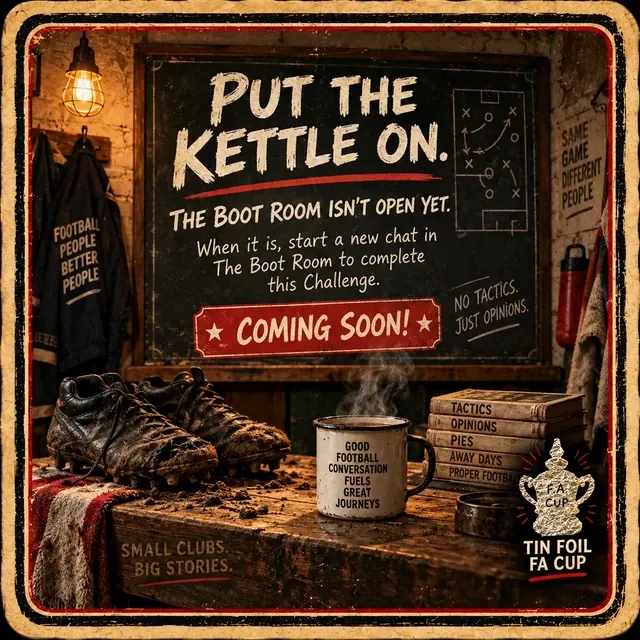
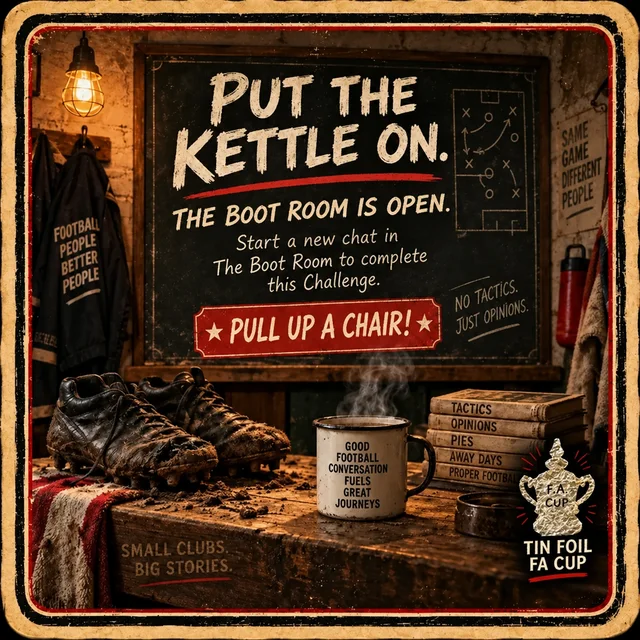
Open the Boot Room Boy Honour Challenge (#676)

diff --git a/beta/challenges-beta.html b/beta/challenges-beta.html
@@ -1367,7 +1367,7 @@ font-weight:900;letter-spacing:.04em;text-transform:uppercase;box-shadow:4px 4px
 </div>
 
 <script>
-const CHALLENGES = [{"id":"00","title":"The Four Laws","subtitle":"It’s The Law!","type":"foundation","motto":"FOUR LAWS. ONE GLORIOUS CAMPAIGN.","behaviour":"reference"},{"id":"01","title":"The First Law","subtitle":"Get Your Blue Peter Badge","type":"honour","motto":"THE FIRST LAW. ALWAYS AND FOREVER.","behaviour":"prerequisite"},{"id":"02","title":"The Second Law","subtitle":"Get to your first Qualifying Tie","type":"campaign","motto":"GET TO YOUR FIRST QUALIFYING TIE.","behaviour":"first_qualifying_tie"},{"id":"03","title":"The Fourth Law","subtitle":"First Tie. First Pie.","type":"honour","motto":"FIRST TIE. FIRST PIE.","behaviour":"simple"},{"id":"04","title":"The Dogs Bollocks","subtitle":"Tin Foil FA Cup. Dog. Camera.","type":"honour","motto":"EVERY GROUND NEEDS A GOOD DOG.","behaviour":"simple"},{"id":"05","title":"The Graduate","subtitle":"Complete the Qualifying School","type":"campaign","motto":"1ST. 2ND. 3RD. GRADUATE.","behaviour":"three_qualifying"},{"id":"06","title":"The Pie’d Piper","subtitle":"4 ties, 4 pies","type":"honour","motto":"4 TIES. 4 PIES.","behaviour":"four_ties_honour"},{"id":"07","title":"Rockerfeller","subtitle":"Donate £5 to Site Upkeep","type":"honour","motto":"EVERY LITTLE HELPS.","behaviour":"simple"},{"id":"08","title":"Ding Ding Ding","subtitle":"The First Round — And a Right Proper One at that!","type":"campaign","motto":"THE FIRST ROUND PROPER.","behaviour":"first_round_proper"},{"id":"09","title":"Cop That!","subtitle":"Snap a pic with a match-day Copper","type":"honour","motto":"HELLO, HELLO, HELLO!","behaviour":"simple"},{"id":"10","title":"Ad Astra","subtitle":"Do Something Special on Your Campaign","type":"honour","motto":"TO THE STARS!","behaviour":"simple"},{"id":"11","title":"Away Days","subtitle":"Get to Three Away Ties","type":"campaign","motto":"RETURN TICKET TO GLORY.","behaviour":"three_away_ties"},{"id":"12","title":"Graffiti Artista","subtitle":"Purchase TFFC Stickers and be just like Banksy, but without the spray can!","type":"comingsoon","motto":"WE’RE STILL MAKING THE BLOODY STICKERS.","behaviour":"coming_soon"},{"id":"13","title":"The Difficult Second Round","subtitle":"All Downhill From Here!","type":"campaign","motto":"ALL DOWNHILL FROM HERE!","behaviour":"second_round_proper"},{"id":"14","title":"The Third Law","subtitle":"No Tickets? You’re OUT!","type":"honour","motto":"NO TICKETS? YOU’RE OUT!","behaviour":"end_campaign"},{"id":"15","title":"Fashionista","subtitle":"Wear TFFAC Merch at a Tie!","type":"comingsoon","motto":"TIN FOIL. HIGH FASHION.","behaviour":"coming_soon"},{"id":"16","title":"Doing A Richard","subtitle":"Get to the 3rd Round","type":"campaign","motto":"YOU’VE DONE A RICHARD!","behaviour":"third_round_proper"},{"id":"17","title":"A Proclaimer","subtitle":"Travel 500 Pigeon Miles","type":"campaign","motto":"TRAVEL 500 PIGEON MILES.","behaviour":"pigeon_500"},{"id":"18","title":"Giant Killer","subtitle":"Beat a club at least two levels above","type":"campaign","motto":"SMALL CLUBS. BIG STORIES.","behaviour":"giant_killer"},{"id":"19","title":"Seeing Double","subtitle":"Travel 1000 Pigeon Miles","type":"campaign","motto":"TRAVEL 1000 PIGEON MILES.","behaviour":"pigeon_1000"},{"id":"20","title":"The Fourth Be With You","subtitle":"Get to the Fourth Round","type":"campaign","motto":"THE FOURTH BE WITH YOU.","behaviour":"fourth_round_proper"},{"id":"21","title":"Boot Room Boy","subtitle":"Start a New Chat in The Boot Room","type":"comingsoon","motto":"PUT THE KETTLE ON.","behaviour":"coming_soon"},{"id":"22","title":"A Beethoven","subtitle":"Get to the Fifth Round","type":"campaign","motto":"DA DA DA DAAAAA!","behaviour":"fifth_round_proper"},{"id":"23","title":"Scorcese","subtitle":"Upload a video to your socials!","type":"honour","motto":"THAT’S A WRAP!","behaviour":"simple"},{"id":"24","title":"Been There, Done That!","subtitle":"Tin Foil FA Cup Tee Shirt Purchase","type":"comingsoon","motto":"BEEN THERE. DONE THAT. GOT THE TEE SHIRT.","behaviour":"coming_soon"},{"id":"25","title":"Quartermeister!","subtitle":"Get to The Quarter Finals!","type":"campaign","motto":"REPORT TO THE QUARTERMEISTER!","behaviour":"quarter_finals"},{"id":"26","title":"Get A Semi On!","subtitle":"Get to The Semi Finals!","type":"campaign","motto":"GET TO THE SEMI FINALS!","behaviour":"semi_finals"},{"id":"27","title":"Wembley Wizard","subtitle":"The Final!","type":"campaign","motto":"FROM THE FIRST TIE TO THE FINAL.","behaviour":"the_final"}];
+const CHALLENGES = [{"id":"00","title":"The Four Laws","subtitle":"It’s The Law!","type":"foundation","motto":"FOUR LAWS. ONE GLORIOUS CAMPAIGN.","behaviour":"reference"},{"id":"01","title":"The First Law","subtitle":"Get Your Blue Peter Badge","type":"honour","motto":"THE FIRST LAW. ALWAYS AND FOREVER.","behaviour":"prerequisite"},{"id":"02","title":"The Second Law","subtitle":"Get to your first Qualifying Tie","type":"campaign","motto":"GET TO YOUR FIRST QUALIFYING TIE.","behaviour":"first_qualifying_tie"},{"id":"03","title":"The Fourth Law","subtitle":"First Tie. First Pie.","type":"honour","motto":"FIRST TIE. FIRST PIE.","behaviour":"simple"},{"id":"04","title":"The Dogs Bollocks","subtitle":"Tin Foil FA Cup. Dog. Camera.","type":"honour","motto":"EVERY GROUND NEEDS A GOOD DOG.","behaviour":"simple"},{"id":"05","title":"The Graduate","subtitle":"Complete the Qualifying School","type":"campaign","motto":"1ST. 2ND. 3RD. GRADUATE.","behaviour":"three_qualifying"},{"id":"06","title":"The Pie’d Piper","subtitle":"4 ties, 4 pies","type":"honour","motto":"4 TIES. 4 PIES.","behaviour":"four_ties_honour"},{"id":"07","title":"Rockerfeller","subtitle":"Donate £5 to Site Upkeep","type":"honour","motto":"EVERY LITTLE HELPS.","behaviour":"simple"},{"id":"08","title":"Ding Ding Ding","subtitle":"The First Round — And a Right Proper One at that!","type":"campaign","motto":"THE FIRST ROUND PROPER.","behaviour":"first_round_proper"},{"id":"09","title":"Cop That!","subtitle":"Snap a pic with a match-day Copper","type":"honour","motto":"HELLO, HELLO, HELLO!","behaviour":"simple"},{"id":"10","title":"Ad Astra","subtitle":"Do Something Special on Your Campaign","type":"honour","motto":"TO THE STARS!","behaviour":"simple"},{"id":"11","title":"Away Days","subtitle":"Get to Three Away Ties","type":"campaign","motto":"RETURN TICKET TO GLORY.","behaviour":"three_away_ties"},{"id":"12","title":"Graffiti Artista","subtitle":"Purchase TFFC Stickers and be just like Banksy, but without the spray can!","type":"comingsoon","motto":"WE’RE STILL MAKING THE BLOODY STICKERS.","behaviour":"coming_soon"},{"id":"13","title":"The Difficult Second Round","subtitle":"All Downhill From Here!","type":"campaign","motto":"ALL DOWNHILL FROM HERE!","behaviour":"second_round_proper"},{"id":"14","title":"The Third Law","subtitle":"No Tickets? You’re OUT!","type":"honour","motto":"NO TICKETS? YOU’RE OUT!","behaviour":"end_campaign"},{"id":"15","title":"Fashionista","subtitle":"Wear TFFAC Merch at a Tie!","type":"comingsoon","motto":"TIN FOIL. HIGH FASHION.","behaviour":"coming_soon"},{"id":"16","title":"Doing A Richard","subtitle":"Get to the 3rd Round","type":"campaign","motto":"YOU’VE DONE A RICHARD!","behaviour":"third_round_proper"},{"id":"17","title":"A Proclaimer","subtitle":"Travel 500 Pigeon Miles","type":"campaign","motto":"TRAVEL 500 PIGEON MILES.","behaviour":"pigeon_500"},{"id":"18","title":"Giant Killer","subtitle":"Beat a club at least two levels above","type":"campaign","motto":"SMALL CLUBS. BIG STORIES.","behaviour":"giant_killer"},{"id":"19","title":"Seeing Double","subtitle":"Travel 1000 Pigeon Miles","type":"campaign","motto":"TRAVEL 1000 PIGEON MILES.","behaviour":"pigeon_1000"},{"id":"20","title":"The Fourth Be With You","subtitle":"Get to the Fourth Round","type":"campaign","motto":"THE FOURTH BE WITH YOU.","behaviour":"fourth_round_proper"},{"id":"21","title":"Boot Room Boy","subtitle":"Start a New Chat in The Boot Room","type":"honour","motto":"PUT THE KETTLE ON.","behaviour":"simple"},{"id":"22","title":"A Beethoven","subtitle":"Get to the Fifth Round","type":"campaign","motto":"DA DA DA DAAAAA!","behaviour":"fifth_round_proper"},{"id":"23","title":"Scorcese","subtitle":"Upload a video to your socials!","type":"honour","motto":"THAT’S A WRAP!","behaviour":"simple"},{"id":"24","title":"Been There, Done That!","subtitle":"Tin Foil FA Cup Tee Shirt Purchase","type":"comingsoon","motto":"BEEN THERE. DONE THAT. GOT THE TEE SHIRT.","behaviour":"coming_soon"},{"id":"25","title":"Quartermeister!","subtitle":"Get to The Quarter Finals!","type":"campaign","motto":"REPORT TO THE QUARTERMEISTER!","behaviour":"quarter_finals"},{"id":"26","title":"Get A Semi On!","subtitle":"Get to The Semi Finals!","type":"campaign","motto":"GET TO THE SEMI FINALS!","behaviour":"semi_finals"},{"id":"27","title":"Wembley Wizard","subtitle":"The Final!","type":"campaign","motto":"FROM THE FIRST TIE TO THE FINAL.","behaviour":"the_final"}];
 const ART = {"00":{"front":"assets/challenge-mats/mat-00-front.webp","back":"assets/challenge-mats/mat-00-back.webp"},"01":{"front":"assets/challenge-mats/mat-01-front.webp","back":"assets/challenge-mats/mat-01-back.webp"},"02":{"front":"assets/challenge-mats/mat-02-front.webp","back":"assets/challenge-mats/mat-02-back.webp"},"03":{"front":"assets/challenge-mats/mat-03-front.webp","back":"assets/challenge-mats/mat-03-back.webp"},"04":{"front":"assets/challenge-mats/mat-04-front.webp","back":"assets/challenge-mats/mat-04-back.webp"},"05":{"front":"assets/challenge-mats/mat-05-front.webp","back":"assets/challenge-mats/mat-05-back.webp"},"06":{"front":"assets/challenge-mats/mat-06-front.webp","back":"assets/challenge-mats/mat-06-back.webp"},"07":{"front":"assets/challenge-mats/mat-07-front.webp","back":"assets/challenge-mats/mat-07-back.webp"},"08":{"front":"assets/challenge-mats/mat-08-front.webp","back":"assets/challenge-mats/mat-08-back.webp"},"09":{"front":"assets/challenge-mats/mat-09-front.webp","back":"assets/challenge-mats/mat-09-back.webp"},"10":{"front":"assets/challenge-mats/mat-10-front.webp","back":"assets/challenge-mats/mat-10-back.webp"},"11":{"front":"assets/challenge-mats/mat-11-front.webp","back":"assets/challenge-mats/mat-11-back.webp"},"12":{"front":"assets/challenge-mats/mat-12-front.webp","back":"assets/challenge-mats/mat-12-back.webp"},"13":{"front":"assets/challenge-mats/mat-13-front.webp","back":"assets/challenge-mats/mat-13-back.webp"},"14":{"front":"assets/challenge-mats/mat-14-front.webp","back":"assets/challenge-mats/mat-14-back.webp"},"15":{"front":"assets/challenge-mats/mat-15-front.webp","back":"assets/challenge-mats/mat-15-back.webp"},"16":{"front":"assets/challenge-mats/mat-16-front.webp","back":"assets/challenge-mats/mat-16-back.webp"},"17":{"front":"assets/challenge-mats/mat-17-front.webp","back":"assets/challenge-mats/mat-17-back.webp"},"18":{"front":"assets/challenge-mats/mat-18-front.webp","back":"assets/challenge-mats/mat-18-back.webp"},"19":{"front":"assets/challenge-mats/mat-19-front.webp","back":"assets/challenge-mats/mat-19-back.webp"},"20":{"front":"assets/challenge-mats/mat-20-front.webp","back":"assets/challenge-mats/mat-20-back.webp"},"21":{"front":"assets/challenge-mats/mat-21-front.webp","back":"assets/challenge-mats/mat-21-back.webp"},"22":{"front":"assets/challenge-mats/mat-22-front.webp","back":"assets/challenge-mats/mat-22-back.webp"},"23":{"front":"assets/challenge-mats/mat-23-front.webp","back":"assets/challenge-mats/mat-23-back.webp"},"24":{"front":"assets/challenge-mats/mat-24-front.webp","back":"assets/challenge-mats/mat-24-back.webp"},"25":{"front":"assets/challenge-mats/mat-25-front.webp","back":"assets/challenge-mats/mat-25-back.webp"},"26":{"front":"assets/challenge-mats/mat-26-front.webp","back":"assets/challenge-mats/mat-26-back.webp"},"27":{"front":"assets/challenge-mats/mat-27-front.webp","back":"assets/challenge-mats/mat-27-back.webp"}};
 
 const CABINET_THUMB=id=>`assets/challenge-thumbs/mat-${id}-front.webp`;
@@ -1638,7 +1638,6 @@ function lockedMessage(c) {
   if (c.type==="foundation") return "Foundation mat — no action required.";
   if (c.type==="comingsoon") {
     if (c.id==="15") return "Coming Soon! — We haven’t made the bloody clothes yet.";
-    if (c.id==="21") return "Coming Soon! — The Boot Room isn’t open yet. Put the kettle on.";
     if (c.id==="24") return "Coming Soon! — Tin Foil FA Cup tee shirts aren’t on sale yet.";
     return "Coming Soon! — We’re still making the bloody stickers.";
   }

diff --git a/tests/test_beta_trophy_viewer.js b/tests/test_beta_trophy_viewer.js
@@ -252,5 +252,19 @@ vm.runInContext('index=4;render()',support.ctx);
 support.nodes.acceptBtn.onclick();
 assert.equal(support.ctx.opened.length,1,'Other Honour challenges never open checkout');
 
+const bootRoomBoy=boot('',{},{});
+vm.runInContext('index=CHALLENGES.findIndex(c=>c.id==="21");render()',bootRoomBoy.ctx);
+assert.equal(bootRoomBoy.nodes.verifyBadge.textContent,'An Honour Challenge');
+assert.equal(bootRoomBoy.nodes.flipcard.classList.contains('coming-soon-mat'),false);
+assert.equal(bootRoomBoy.nodes.acceptBtn.disabled,false);
+assert.equal(bootRoomBoy.nodes.completeBtn.disabled,true);
+bootRoomBoy.nodes.acceptBtn.onclick();
+assert.equal(bootRoomBoy.nodes.completeBtn.disabled,false);
+bootRoomBoy.nodes.completeBtn.onclick();
+assert.equal(vm.runInContext('!!state.completed["21"]',bootRoomBoy.ctx),true);
+assert.ok(bootRoomBoy.nodes.deckCabinet.children.some(slot=>
+  slot.className.includes('completed')&&slot.children[0]?.dataset.src.endsWith('/mat-21-front.webp')),
+  'Completing Boot Room Boy must put Mat 21 in the Trophy Cabinet');
+
 console.log('BETA TROPHY VIEWER: PASS');
 console.log('Three taps, backdrop, Escape, keyboard, focus, persistent state and Deck isolation: PASS');
